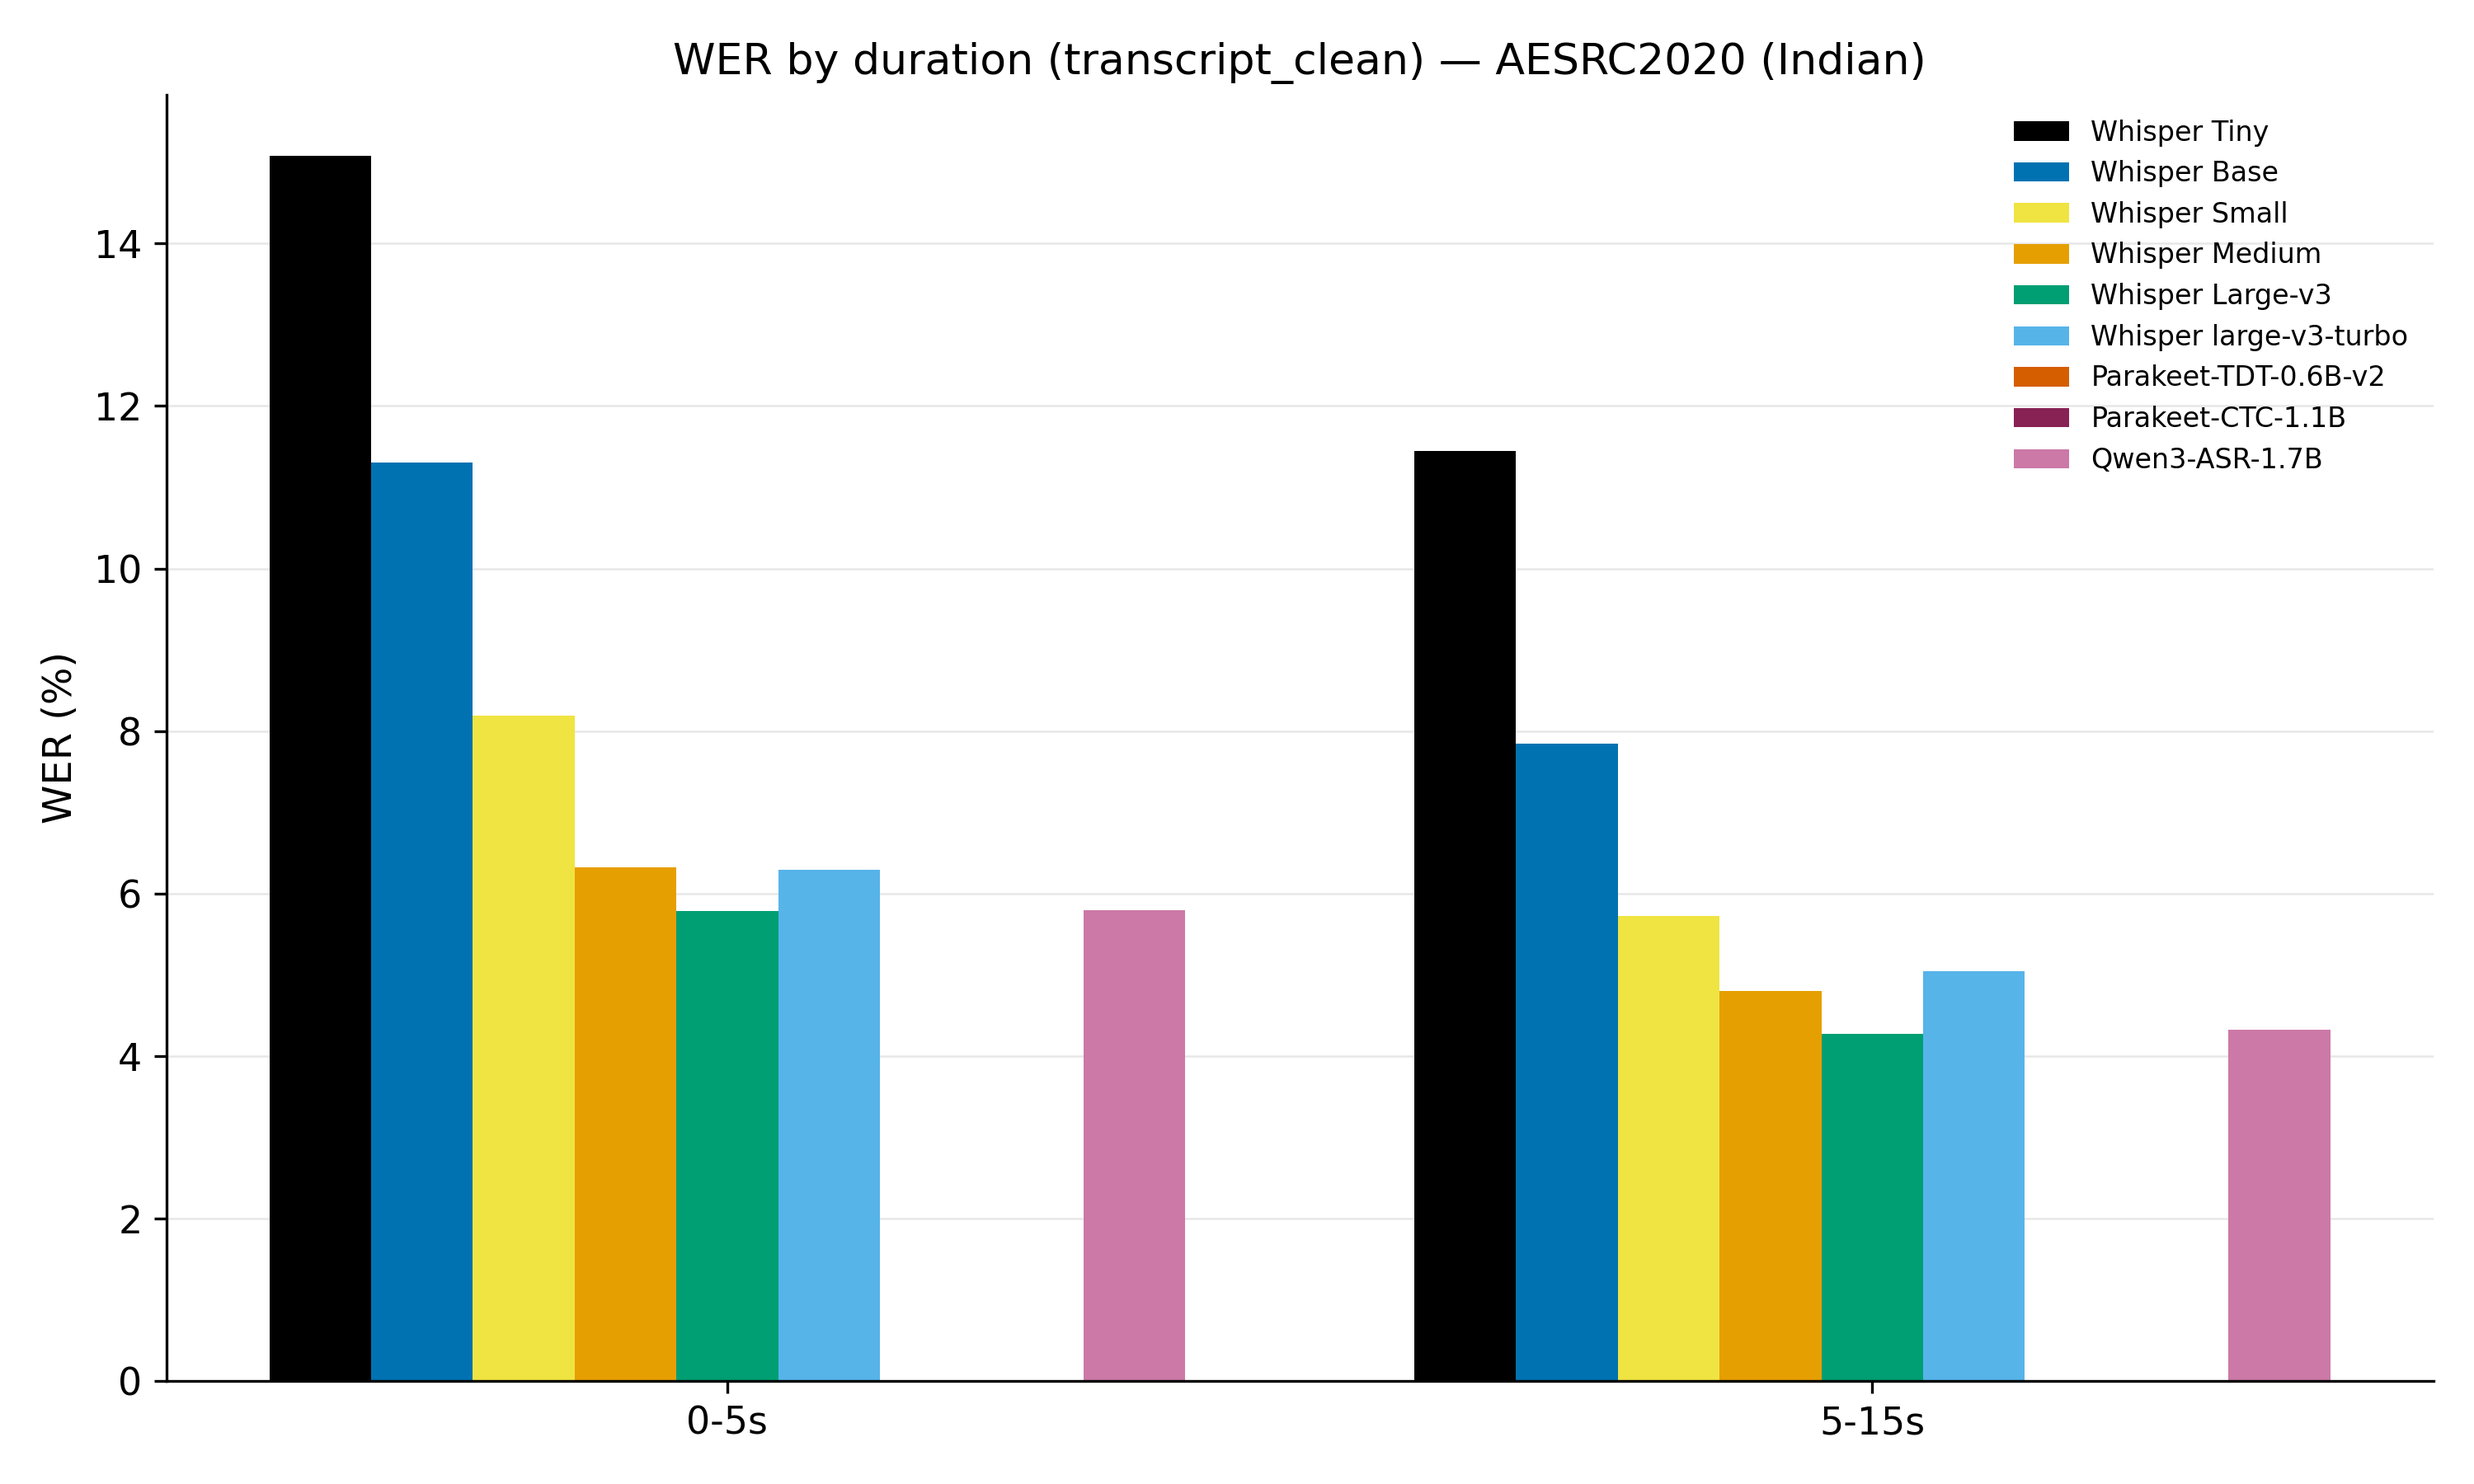
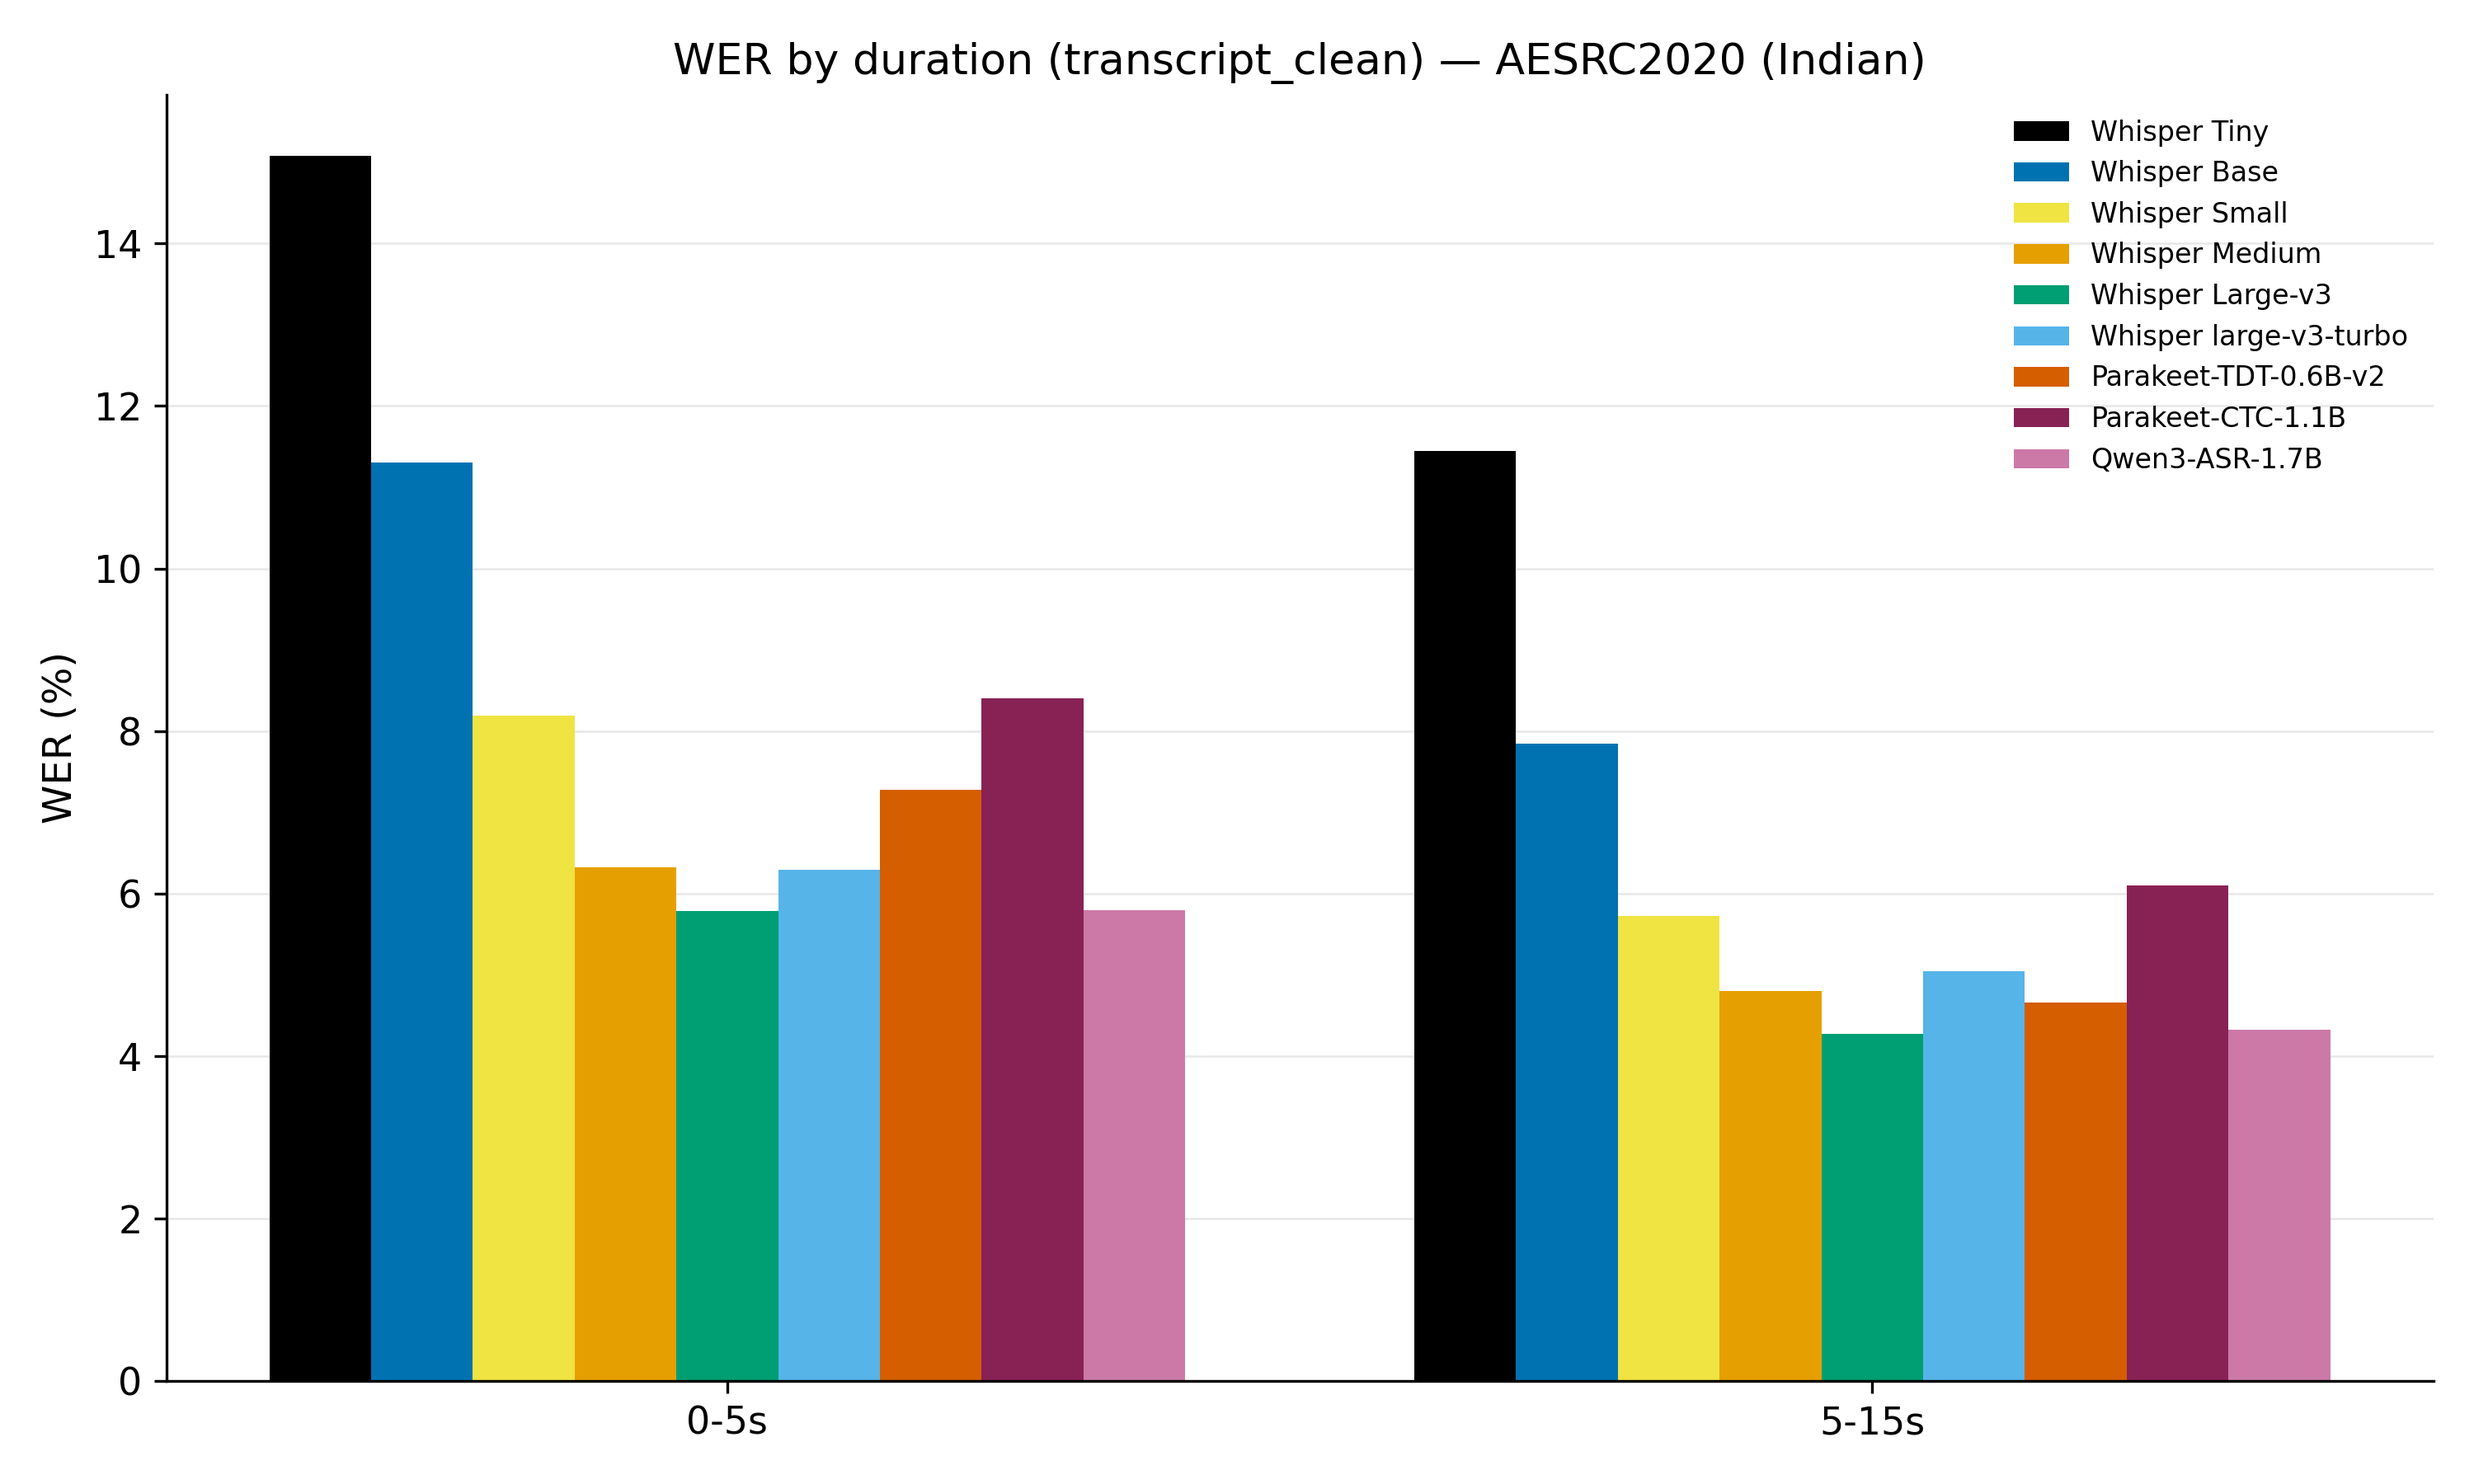
Pool clip durations across models for the duration breakdown
The NeMo runners on AESRC predate the derived-duration path, so their
Speech_Duration_seconds column is empty and both Parakeets silently
dropped out of comparison_by_duration.csv. Duration is a clip property:
fill it by ID from whichever model's table has it.

Changed region(s): [[0.341, 0.4667, 0.465, 0.9333], [0.806, 0.5911, 0.899, 0.9333]]

diff --git a/analysis/compare_all.py b/analysis/compare_all.py
@@ -114,7 +114,17 @@ def main(dataset: str) -> None:
         if rows:
             pd.DataFrame(rows).to_csv(os.path.join(out_dir, f"comparison_by_{col}.csv"), index=False)
 
-    # duration breakdown
+    # duration breakdown. Duration is a clip property, not a model property, so pool an
+    # ID -> duration map across every model's table first: engines that predate the
+    # derived-duration path (the NeMo runners on AESRC) left the column empty, and
+    # without the fill their models silently vanish from this table.
+    dur_by_id = {}
+    for model in models:
+        df = all_data.get((model, PRIMARY_MODE))
+        if df is None:
+            continue
+        d = pd.to_numeric(df["Speech_Duration_seconds"], errors="coerce")
+        dur_by_id.update({i: v for i, v in zip(df["ID"], d) if pd.notna(v)})
     dur = {}
     for model in models:
         df = all_data.get((model, PRIMARY_MODE))
@@ -122,6 +132,7 @@ def main(dataset: str) -> None:
             continue
         df = df.copy()
         df["_dur"] = pd.to_numeric(df["Speech_Duration_seconds"], errors="coerce")
+        df["_dur"] = df["_dur"].fillna(df["ID"].map(dur_by_id))
         df["_bucket"] = pd.cut(df["_dur"], bins=DURATION_BINS, labels=DURATION_LABELS)
         for bucket, gdf in df.groupby("_bucket", observed=True):
             dur.setdefault(str(bucket), {})[model] = round(_corpus_wer(gdf), 2)
